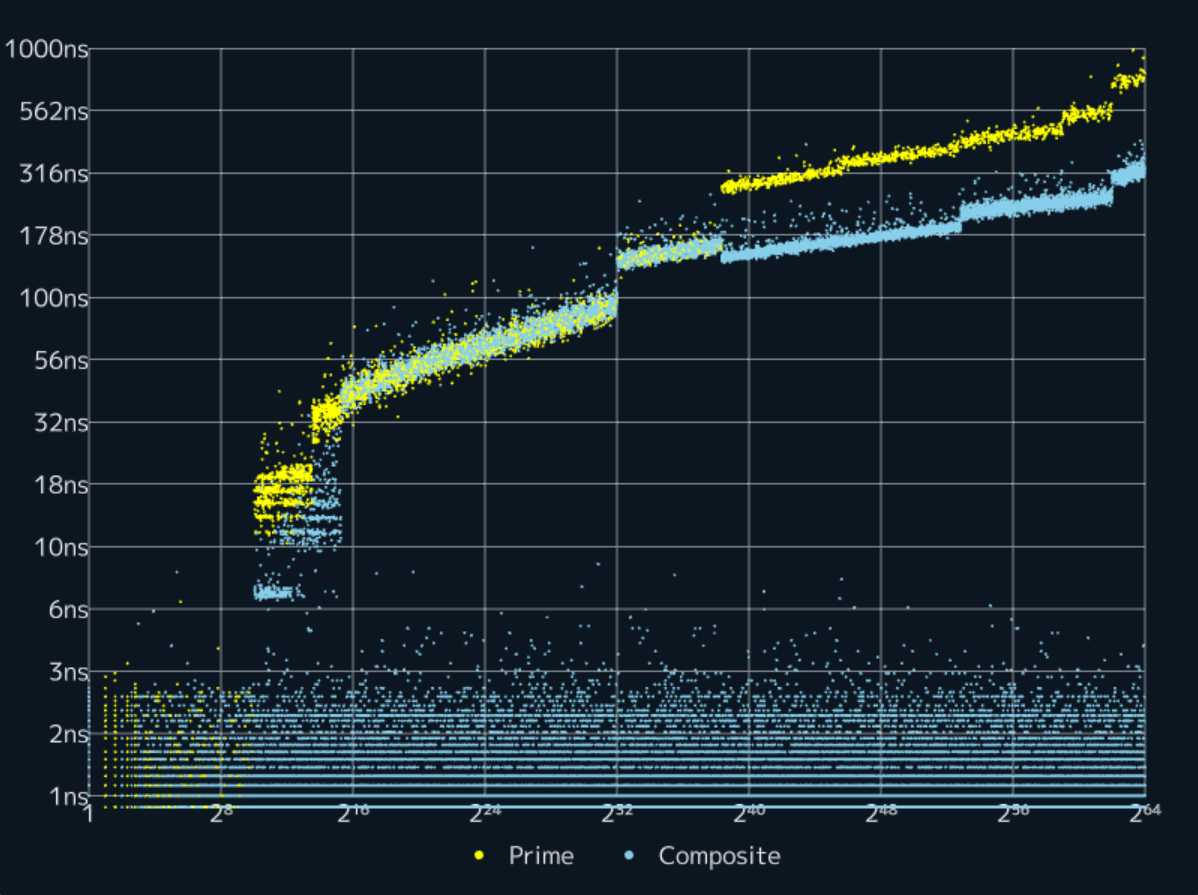
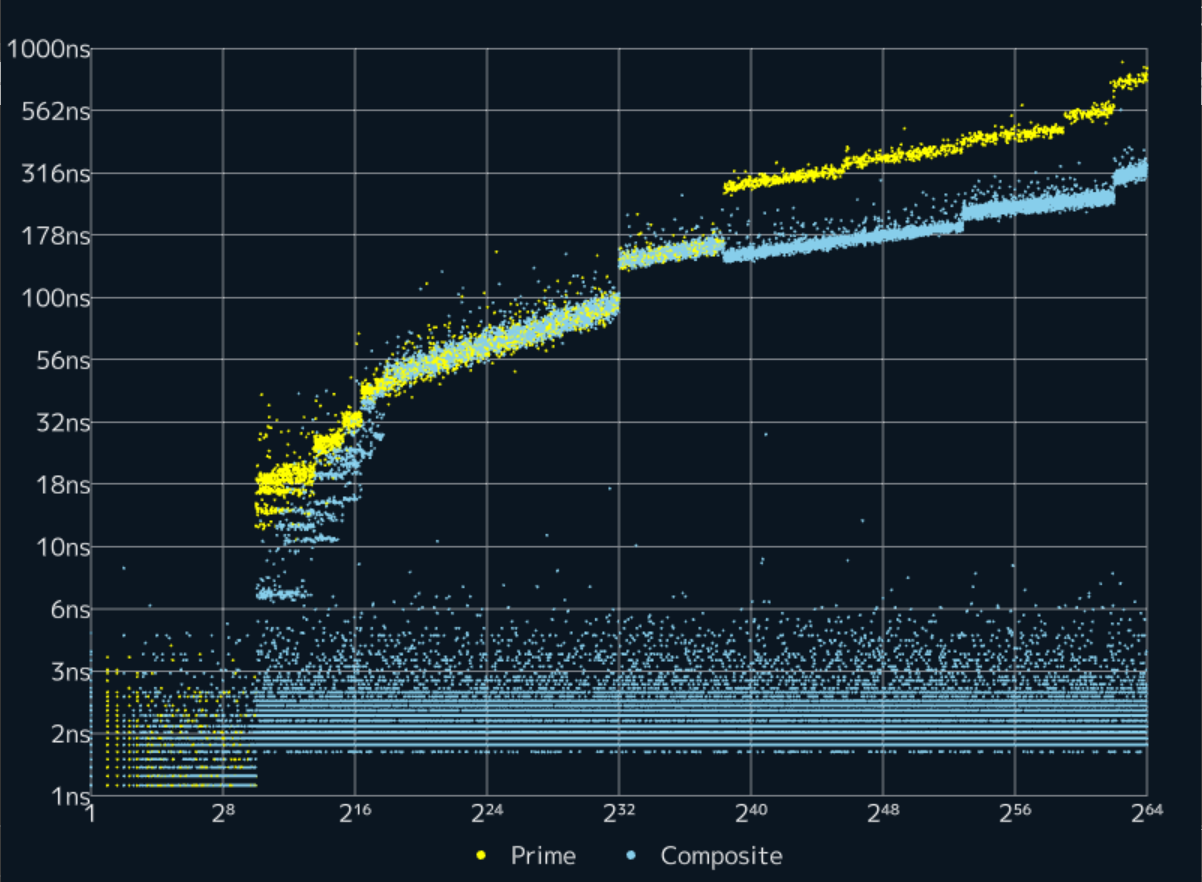
Release ver 1.2.3

diff --git a/libcpprime/internal/IsPrimeCommon.hpp b/libcpprime/internal/IsPrimeCommon.hpp
@@ -289,10 +289,17 @@ namespace internal {
 748,5003,9048,4679,1915,7652,9657,660,3054,15469,2910,775,14106,1749,136,2673,61814,5633,1244,2567,4989,1637,1273,11423,7974,7509,6061,531,6608,1088,1627,160,6416,11350,921,306,18117,1238,463,1722,996,3866,6576,6055,130,24080,7331,3922,8632,2706,24108,32374,4237,15302,287,2296,1220,20922,3350,2089,562,11745,163,11951 };
     // clang-format on
     LIBCPPRIME_CONSTEXPR bool IsPrime32(const std::uint32_t x) noexcept {
-        if (x < 39601) {
-            if (GCD32(Divu128(272518712866683587ull % x, 10755835586592736005ull, x).low, x) != 1) return false;
-            if (x < 11881) return true;
-            return GCD32(Divu128(827936745744686818ull % x, 10132550402535125089ull, x).low, x) == 1;
+        if (x < 218089) {
+            const std::uint32_t a = Divu128(272518712866683587ull % x, 10755835586592736005ull, x).low;
+            if (x < 11881) return GCD32(a, x) == 1;
+            const std::uint32_t b = Divu128(827936745744686818ull % x, 10132550402535125089ull, x).low;
+            if (x < 39601) return GCD32((a * b) % x, x) == 1;
+            const std::uint32_t c = Divu128(9647383993136055606ull % x, 17068348107132031867ull, x).low;
+            if (x < 85849) return GCD32(std::uint64_t(a) * b * c % x, x) == 1;
+            const std::uint32_t d = Divu128(5118528107581154032ull % x, 7251394891134766417ull, x).low;
+            if (x < 151321) return GCD32((std::uint64_t(a) * b % x) * (std::uint64_t(c) * d % x) % x, x) == 1;
+            const std::uint32_t e = Divu128(385001175472415285ull % x, 586477103009887527ull, x).low;
+            return GCD32((std::uint64_t(a) * b * c % x) * (std::uint64_t(d) * e % x) % x, x) == 1;
         }
         const std::uint32_t h = x * 0xad625b89;
         std::uint32_t d = x - 1;

diff --git a/README.md b/README.md
@@ -78,6 +78,8 @@ g++ -I ./libcpprime -O3 Main.cpp
 
 # Releases
 
+- 2024/12/26 ver 1.2.3
+  - Improve performance
 - 2024/12/25 ver 1.2.2
   - Improve performance
 - 2024/12/23 ver 1.2.1
